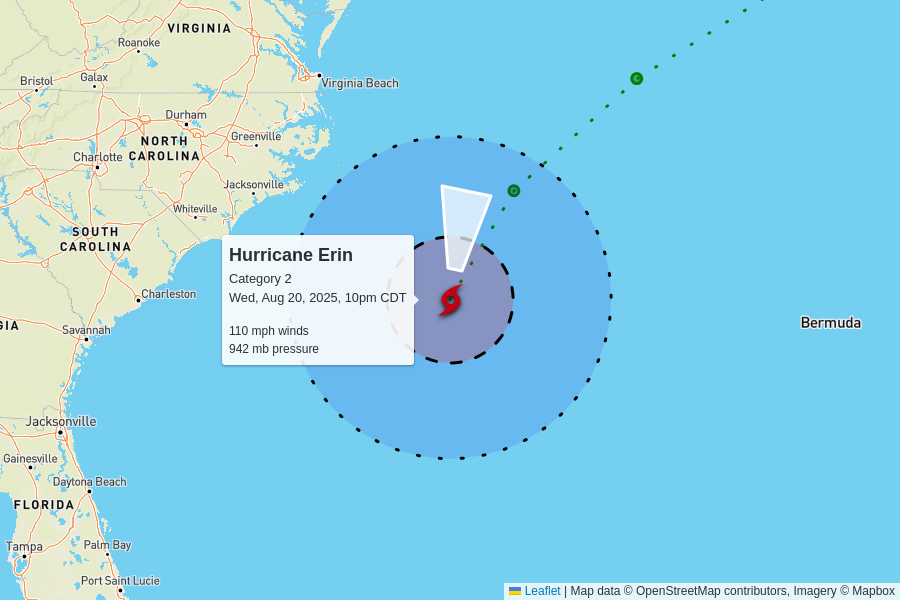
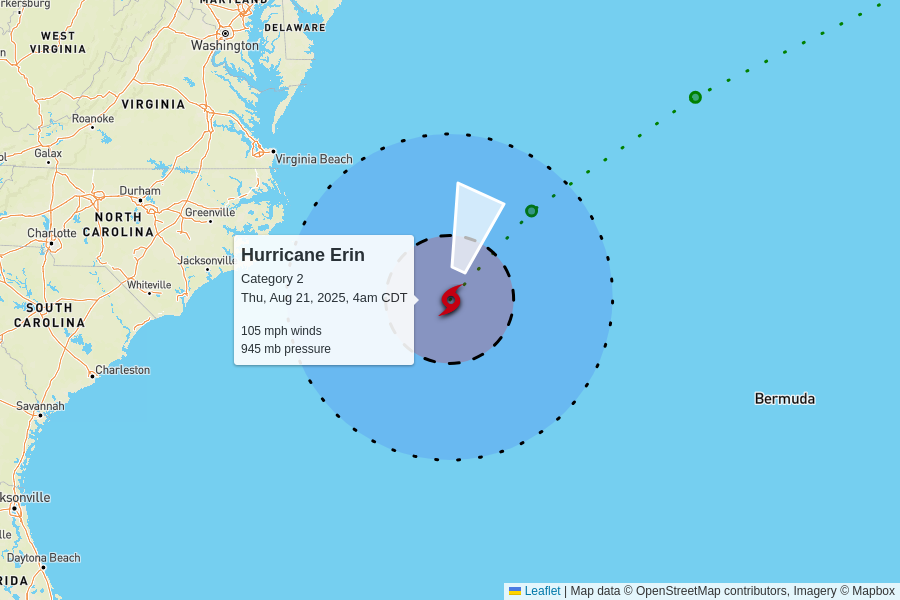
automatic update

diff --git a/docs/index.html b/docs/index.html
@@ -102,7 +102,7 @@
         <td colspan="6" class="storm category-2" >
           <h2>
             Hurricane Erin - Category 2
-            <p class="updated">last updated <span data-time>2025-08-21T03:00:00.000Z</span></p>
+            <p class="updated">last updated <span data-time>2025-08-21T09:00:00.000Z</span></p>
           </h2>
         </td>
       </tr>
@@ -117,12 +117,12 @@
       </tr>
       <tr>
         <td class="spacer"></td>
-        <td>110 mph<br>0 mph since last update</td>
-        <td>942 mb<br>-1 mb since last update</td>
+        <td>105 mph<br>-5 mph since last update</td>
+        <td>945 mb<br>+3 mb since last update</td>
         <td>
-          16 mph to the north
+          17 mph to the north-northeast
           <br/>
-          <span style="display: inline-block; font-size: 1.5em; transform: rotate(10deg);">↑</span>
+          <span style="display: inline-block; font-size: 1.5em; transform: rotate(20deg);">↑</span>
         </td>
         <td><a href="https://raw.githubusercontent.com/mgwalker/atlantic-hurricanes/main/data/csv/AL052025.csv">AL052025.csv</a></td>
         <td><a href="https://www.nhc.noaa.gov/archive/2025/ERIN.shtml?">NHC advisories</a></td>
